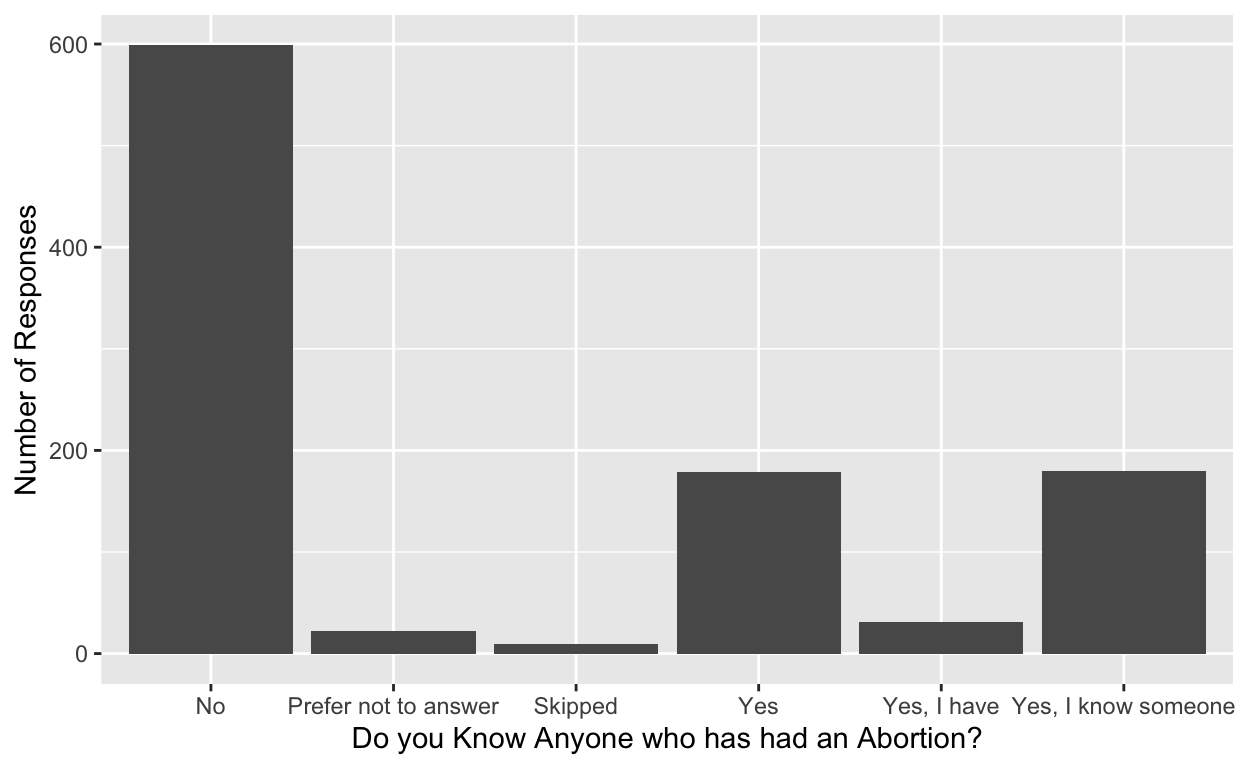
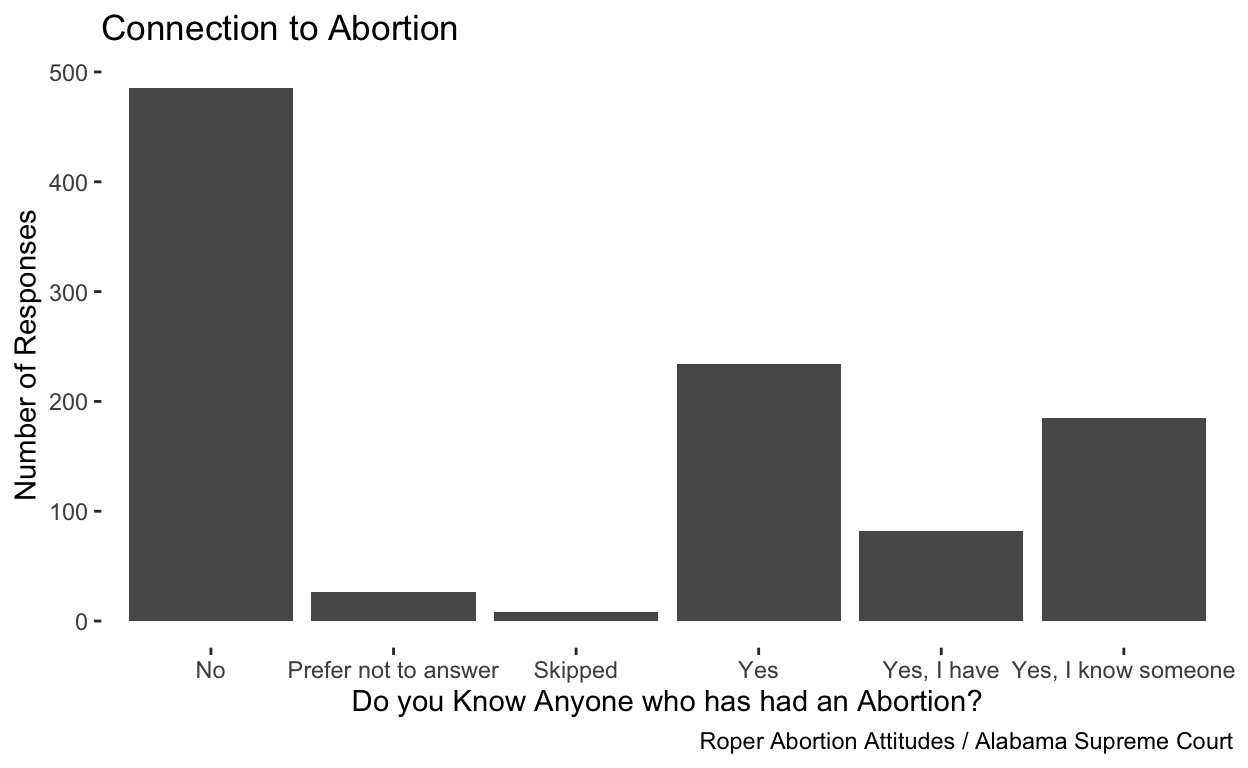
final project milestone 4

diff --git a/index.html b/index.html
@@ -115,7 +115,7 @@ code span.wa { color: #5e5e5e; font-style: italic; } /* Warning */
   <!--/radix_placeholder_rmarkdown_metadata-->
   
   <script type="text/json" id="radix-resource-manifest">
-  {"type":"character","attributes":{},"value":["~$Final Project Data.xlsx","Data/Final Project Data.csv","Final Project Data.xlsx","index_files/anchor-4.2.2/anchor.min.js","index_files/bowser-1.9.3/bowser.min.js","index_files/distill-2.2.21/template.v2.js","index_files/figure-html5/unnamed-chunk-1-1.png","index_files/header-attrs-2.17/header-attrs.js","index_files/header-attrs-2.28/header-attrs.js","index_files/jquery-3.6.0/jquery-3.6.0.js","index_files/jquery-3.6.0/jquery-3.6.0.min.js","index_files/jquery-3.6.0/jquery-3.6.0.min.map","index_files/popper-2.6.0/popper.min.js","index_files/tippy-6.2.7/tippy-bundle.umd.min.js","index_files/tippy-6.2.7/tippy-light-border.css","index_files/tippy-6.2.7/tippy.css","index_files/tippy-6.2.7/tippy.umd.min.js","index_files/webcomponents-2.0.0/webcomponents.js"]}
+  {"type":"character","attributes":{},"value":["Data/Final Project Data.csv","Final Project Data.xlsx","index_files/anchor-4.2.2/anchor.min.js","index_files/bowser-1.9.3/bowser.min.js","index_files/distill-2.2.21/template.v2.js","index_files/figure-html5/unnamed-chunk-1-1.png","index_files/header-attrs-2.17/header-attrs.js","index_files/header-attrs-2.28/header-attrs.js","index_files/header-attrs-2.29/header-attrs.js","index_files/jquery-3.6.0/jquery-3.6.0.js","index_files/jquery-3.6.0/jquery-3.6.0.min.js","index_files/jquery-3.6.0/jquery-3.6.0.min.map","index_files/popper-2.6.0/popper.min.js","index_files/tippy-6.2.7/tippy-bundle.umd.min.js","index_files/tippy-6.2.7/tippy-light-border.css","index_files/tippy-6.2.7/tippy.css","index_files/tippy-6.2.7/tippy.umd.min.js","index_files/webcomponents-2.0.0/webcomponents.js"]}
   </script>
   <!--radix_placeholder_navigation_in_header-->
   <!--/radix_placeholder_navigation_in_header-->
@@ -1497,7 +1497,7 @@ code span.wa { color: #5e5e5e; font-style: italic; } /* Warning */
   </script>
 
   <!--/radix_placeholder_distill-->
-  <script src="index_files/header-attrs-2.28/header-attrs.js"></script>
+  <script src="index_files/header-attrs-2.29/header-attrs.js"></script>
   <script src="index_files/jquery-3.6.0/jquery-3.6.0.min.js"></script>
   <script src="index_files/popper-2.6.0/popper.min.js"></script>
   <link href="index_files/tippy-6.2.7/tippy.css" rel="stylesheet" />
@@ -1552,15 +1552,107 @@ code span.wa { color: #5e5e5e; font-style: italic; } /* Warning */
 <div class="sourceCode">
 <pre class="sourceCode r"><code class="sourceCode r"><span><span class='kw'><a href='https://rdrr.io/r/base/library.html'>library</a></span><span class='op'>(</span><span class='va'><a href='https://tidyverse.tidyverse.org'>tidyverse</a></span><span class='op'>)</span></span>
 <span><span class='va'>abortions</span> <span class='op'>&lt;-</span> <span class='fu'><a href='https://readr.tidyverse.org/reference/read_delim.html'>read_csv</a></span><span class='op'>(</span><span class='st'>"Data/Final Project Data.csv"</span><span class='op'>)</span></span>
-<span><span class='va'>a_attitudes</span> <span class='op'>&lt;-</span> <span class='va'>abortions</span> <span class='op'>|&gt;</span> <span class='fu'><a href='https://dplyr.tidyverse.org/reference/group_by.html'>group_by</a></span><span class='op'>(</span><span class='va'>...18</span><span class='op'>)</span> <span class='op'>|&gt;</span></span>
-<span>  <span class='fu'><a href='https://dplyr.tidyverse.org/reference/summarise.html'>summarize</a></span><span class='op'>(</span>n <span class='op'>=</span> <span class='fu'><a href='https://dplyr.tidyverse.org/reference/context.html'>n</a></span><span class='op'>(</span><span class='op'>)</span><span class='op'>)</span> </span>
+<span></span>
+<span><span class='va'>a_attitudes</span> <span class='op'>&lt;-</span> <span class='va'>abortions</span> <span class='op'>|&gt;</span> <span class='fu'><a href='https://dplyr.tidyverse.org/reference/group_by.html'>group_by</a></span><span class='op'>(</span><span class='va'>...17</span><span class='op'>)</span> <span class='op'>|&gt;</span> <span class='fu'><a href='https://dplyr.tidyverse.org/reference/summarise.html'>summarize</a></span><span class='op'>(</span>n <span class='op'>=</span> <span class='fu'><a href='https://dplyr.tidyverse.org/reference/context.html'>n</a></span><span class='op'>(</span><span class='op'>)</span><span class='op'>)</span> </span>
+<span></span>
 <span><span class='va'>a_attitudes</span> <span class='op'>&lt;-</span> <span class='va'>a_attitudes</span> <span class='op'>|&gt;</span> </span>
-<span><span class='fu'><a href='https://dplyr.tidyverse.org/reference/filter.html'>filter</a></span><span class='op'>(</span><span class='va'>...18</span> <span class='op'>!=</span> <span class='st'>"BNE3_3"</span><span class='op'>)</span></span>
-<span><span class='fu'><a href='https://ggplot2.tidyverse.org/reference/ggplot.html'>ggplot</a></span><span class='op'>(</span>data <span class='op'>=</span> <span class='va'>a_attitudes</span>, mapping <span class='op'>=</span> <span class='fu'><a href='https://ggplot2.tidyverse.org/reference/aes.html'>aes</a></span><span class='op'>(</span>x <span class='op'>=</span> <span class='va'>...18</span>, y <span class='op'>=</span> <span class='va'>n</span><span class='op'>)</span><span class='op'>)</span> <span class='op'>+</span></span>
-<span>  <span class='fu'><a href='https://ggplot2.tidyverse.org/reference/geom_bar.html'>geom_col</a></span><span class='op'>(</span><span class='op'>)</span> <span class='op'>+</span> <span class='fu'><a href='https://ggplot2.tidyverse.org/reference/labs.html'>labs</a></span><span class='op'>(</span>x <span class='op'>=</span> <span class='st'>"Do you Know Anyone who has had an Abortion?"</span>, y <span class='op'>=</span> <span class='st'>"Number of Responses"</span><span class='op'>)</span></span></code></pre>
+<span><span class='fu'><a href='https://dplyr.tidyverse.org/reference/filter.html'>filter</a></span><span class='op'>(</span><span class='va'>...17</span> <span class='op'>!=</span> <span class='st'>"BNE3_2"</span><span class='op'>)</span> </span>
+<span><span class='fu'><a href='https://ggplot2.tidyverse.org/reference/ggplot.html'>ggplot</a></span><span class='op'>(</span>data <span class='op'>=</span> <span class='va'>a_attitudes</span>, mapping <span class='op'>=</span> <span class='fu'><a href='https://ggplot2.tidyverse.org/reference/aes.html'>aes</a></span><span class='op'>(</span>x <span class='op'>=</span> <span class='va'>...17</span>, y <span class='op'>=</span> <span class='va'>n</span><span class='op'>)</span><span class='op'>)</span> <span class='op'>+</span></span>
+<span>  <span class='fu'><a href='https://ggplot2.tidyverse.org/reference/geom_bar.html'>geom_col</a></span><span class='op'>(</span><span class='op'>)</span> <span class='op'>+</span> <span class='fu'><a href='https://ggplot2.tidyverse.org/reference/theme.html'>theme</a></span><span class='op'>(</span>panel.background <span class='op'>=</span> <span class='fu'><a href='https://ggplot2.tidyverse.org/reference/element.html'>element_blank</a></span><span class='op'>(</span><span class='op'>)</span><span class='op'>)</span> <span class='op'>+</span> <span class='fu'><a href='https://ggplot2.tidyverse.org/reference/labs.html'>labs</a></span><span class='op'>(</span>x <span class='op'>=</span> <span class='st'>"Do you Know Anyone who has had an Abortion?"</span>, y <span class='op'>=</span> <span class='st'>"Number of Responses"</span>, title <span class='op'>=</span> <span class='st'>"Connection to Abortion"</span>, caption <span class='op'>=</span> <span class='st'>"Roper Abortion Attitudes / Alabama Supreme Court"</span><span class='op'>)</span></span></code></pre>
 </div>
 <p><img src="index_files/figure-html5/unnamed-chunk-1-1.png" width="624" /></p>
 </div>
+<h2 id="analysis-of-data">Analysis of Data</h2>
+<div class="layout-chunk" data-layout="l-body">
+<div class="sourceCode">
+<pre class="sourceCode r"><code class="sourceCode r"><span><span class='va'>abortions_yes</span> <span class='op'>&lt;-</span> <span class='va'>abortions</span> <span class='op'>|&gt;</span> <span class='fu'><a href='https://dplyr.tidyverse.org/reference/mutate.html'>mutate</a></span><span class='op'>(</span> yes <span class='op'>=</span> <span class='va'>...17</span> <span class='op'>==</span> <span class='st'>"Yes"</span> <span class='op'>|</span> <span class='va'>...17</span> <span class='op'>==</span> <span class='st'>"Yes, I have"</span> <span class='op'>|</span> <span class='va'>...17</span> <span class='op'>==</span> <span class='st'>"Yes, I know someone"</span><span class='op'>)</span> <span class='op'>|&gt;</span> <span class='fu'><a href='https://dplyr.tidyverse.org/reference/filter.html'>filter</a></span><span class='op'>(</span><span class='va'>yes</span><span class='op'>)</span></span>
+<span></span>
+<span><span class='va'>abortions_yes</span> <span class='op'>|&gt;</span> <span class='fu'><a href='https://dplyr.tidyverse.org/reference/select.html'>select</a></span><span class='op'>(</span><span class='va'>...17</span>, <span class='va'>...13</span><span class='op'>)</span> <span class='op'>|&gt;</span> <span class='fu'><a href='https://dplyr.tidyverse.org/reference/group_by.html'>group_by</a></span><span class='op'>(</span><span class='va'>...13</span><span class='op'>)</span> <span class='op'>|&gt;</span> <span class='fu'><a href='https://dplyr.tidyverse.org/reference/summarise.html'>summarize</a></span><span class='op'>(</span>n <span class='op'>=</span> <span class='fu'><a href='https://dplyr.tidyverse.org/reference/context.html'>n</a></span><span class='op'>(</span><span class='op'>)</span><span class='op'>)</span> <span class='op'>|&gt;</span> <span class='fu'><a href='https://dplyr.tidyverse.org/reference/mutate.html'>mutate</a></span><span class='op'>(</span>prop <span class='op'>=</span> <span class='va'>n</span><span class='op'>/</span><span class='fu'><a href='https://rdrr.io/r/base/sum.html'>sum</a></span><span class='op'>(</span><span class='va'>n</span><span class='op'>)</span><span class='op'>)</span> <span class='op'>|&gt;</span> <span class='fu'>knitr</span><span class='fu'>::</span><span class='fu'><a href='https://rdrr.io/pkg/knitr/man/kable.html'>kable</a></span><span class='op'>(</span>col.names <span class='op'>=</span> <span class='fu'><a href='https://rdrr.io/r/base/c.html'>c</a></span><span class='op'>(</span><span class='st'>"Abortion Ban at 16 Weeks"</span>, <span class='st'>"Number of Answers"</span>, <span class='st'>"Prop. of Answers "</span><span class='op'>)</span>, caption <span class='op'>=</span> <span class='st'>"Responses To Abortion Ban By Those Who Know Someone Who Has Had An Abortion"</span><span class='op'>)</span></span></code></pre>
+</div>
+<table>
+<caption><span id="tab:unnamed-chunk-2">Table 1: </span>Responses To Abortion Ban By Those Who Know Someone Who Has Had An Abortion</caption>
+<thead>
+<tr class="header">
+<th style="text-align: left;">Abortion Ban at 16 Weeks</th>
+<th style="text-align: right;">Number of Answers</th>
+<th style="text-align: right;">Prop. of Answers</th>
+</tr>
+</thead>
+<tbody>
+<tr class="odd">
+<td style="text-align: left;">Skipped</td>
+<td style="text-align: right;">5</td>
+<td style="text-align: right;">0.0099800</td>
+</tr>
+<tr class="even">
+<td style="text-align: left;">Somewhat oppose</td>
+<td style="text-align: right;">67</td>
+<td style="text-align: right;">0.1337325</td>
+</tr>
+<tr class="odd">
+<td style="text-align: left;">Somewhat support</td>
+<td style="text-align: right;">92</td>
+<td style="text-align: right;">0.1836327</td>
+</tr>
+<tr class="even">
+<td style="text-align: left;">Strongly oppose</td>
+<td style="text-align: right;">256</td>
+<td style="text-align: right;">0.5109780</td>
+</tr>
+<tr class="odd">
+<td style="text-align: left;">Strongly support</td>
+<td style="text-align: right;">81</td>
+<td style="text-align: right;">0.1616766</td>
+</tr>
+</tbody>
+</table>
+</div>
+<div class="layout-chunk" data-layout="l-body">
+<div class="sourceCode">
+<pre class="sourceCode r"><code class="sourceCode r"><span><span class='va'>abortions_no</span> <span class='op'>&lt;-</span> <span class='va'>abortions</span> <span class='op'>|&gt;</span> <span class='fu'><a href='https://dplyr.tidyverse.org/reference/filter.html'>filter</a></span><span class='op'>(</span><span class='va'>...17</span> <span class='op'>==</span> <span class='st'>"No"</span><span class='op'>)</span></span>
+<span></span>
+<span><span class='va'>abortions_no</span> <span class='op'>|&gt;</span> <span class='fu'><a href='https://dplyr.tidyverse.org/reference/select.html'>select</a></span><span class='op'>(</span><span class='va'>...17</span>, <span class='va'>...13</span><span class='op'>)</span> <span class='op'>|&gt;</span> <span class='fu'><a href='https://dplyr.tidyverse.org/reference/group_by.html'>group_by</a></span><span class='op'>(</span><span class='va'>...13</span><span class='op'>)</span> <span class='op'>|&gt;</span></span>
+<span>  <span class='fu'><a href='https://dplyr.tidyverse.org/reference/summarise.html'>summarize</a></span><span class='op'>(</span>n <span class='op'>=</span> <span class='fu'><a href='https://dplyr.tidyverse.org/reference/context.html'>n</a></span><span class='op'>(</span><span class='op'>)</span><span class='op'>)</span> <span class='op'>|&gt;</span> <span class='fu'><a href='https://dplyr.tidyverse.org/reference/mutate.html'>mutate</a></span><span class='op'>(</span>prop <span class='op'>=</span> <span class='va'>n</span><span class='op'>/</span><span class='fu'><a href='https://rdrr.io/r/base/sum.html'>sum</a></span><span class='op'>(</span><span class='va'>n</span><span class='op'>)</span><span class='op'>)</span> <span class='op'>|&gt;</span> <span class='fu'>knitr</span><span class='fu'>::</span><span class='fu'><a href='https://rdrr.io/pkg/knitr/man/kable.html'>kable</a></span><span class='op'>(</span>col.names <span class='op'>=</span> <span class='fu'><a href='https://rdrr.io/r/base/c.html'>c</a></span><span class='op'>(</span><span class='st'>"Abortion Ban at 16 Weeks"</span>, <span class='st'>"Number of Answers"</span>, <span class='st'>"Prop. of Answers "</span><span class='op'>)</span>, caption <span class='op'>=</span> <span class='st'>"Responses To Abortion Ban By Those Who Don't Know Someone Who Has Had An Abortion"</span><span class='op'>)</span></span></code></pre>
+</div>
+<table>
+<caption><span id="tab:unnamed-chunk-3">Table 2: </span>Responses To Abortion Ban By Those Who Don’t Know Someone Who Has Had An Abortion</caption>
+<thead>
+<tr class="header">
+<th style="text-align: left;">Abortion Ban at 16 Weeks</th>
+<th style="text-align: right;">Number of Answers</th>
+<th style="text-align: right;">Prop. of Answers</th>
+</tr>
+</thead>
+<tbody>
+<tr class="odd">
+<td style="text-align: left;">Skipped</td>
+<td style="text-align: right;">10</td>
+<td style="text-align: right;">0.0206186</td>
+</tr>
+<tr class="even">
+<td style="text-align: left;">Somewhat oppose</td>
+<td style="text-align: right;">96</td>
+<td style="text-align: right;">0.1979381</td>
+</tr>
+<tr class="odd">
+<td style="text-align: left;">Somewhat support</td>
+<td style="text-align: right;">109</td>
+<td style="text-align: right;">0.2247423</td>
+</tr>
+<tr class="even">
+<td style="text-align: left;">Strongly oppose</td>
+<td style="text-align: right;">171</td>
+<td style="text-align: right;">0.3525773</td>
+</tr>
+<tr class="odd">
+<td style="text-align: left;">Strongly support</td>
+<td style="text-align: right;">99</td>
+<td style="text-align: right;">0.2041237</td>
+</tr>
+</tbody>
+</table>
+</div>
+<p>Looking at both of the above tables, there seems to be a difference in the proportion of individuals who strongly oppose a 16-week abortion ban between those who know someone who has had an abortion and those who don’t. There is a higher proportion of individuals who strongly oppose an abortion ban among those who know someone who has had an abortion in comparison to individuals who do not. This points to a possible correlation between knowing someone who has had an abortion and being against an abortion ban. I intend to look into this further by creating another visualization between the variables in the tables.</p>
 <div class="sourceCode" id="cb1"><pre class="sourceCode r distill-force-highlighting-css"><code class="sourceCode r"></code></pre></div>
 <!--radix_placeholder_article_footer-->
 <!--/radix_placeholder_article_footer-->
